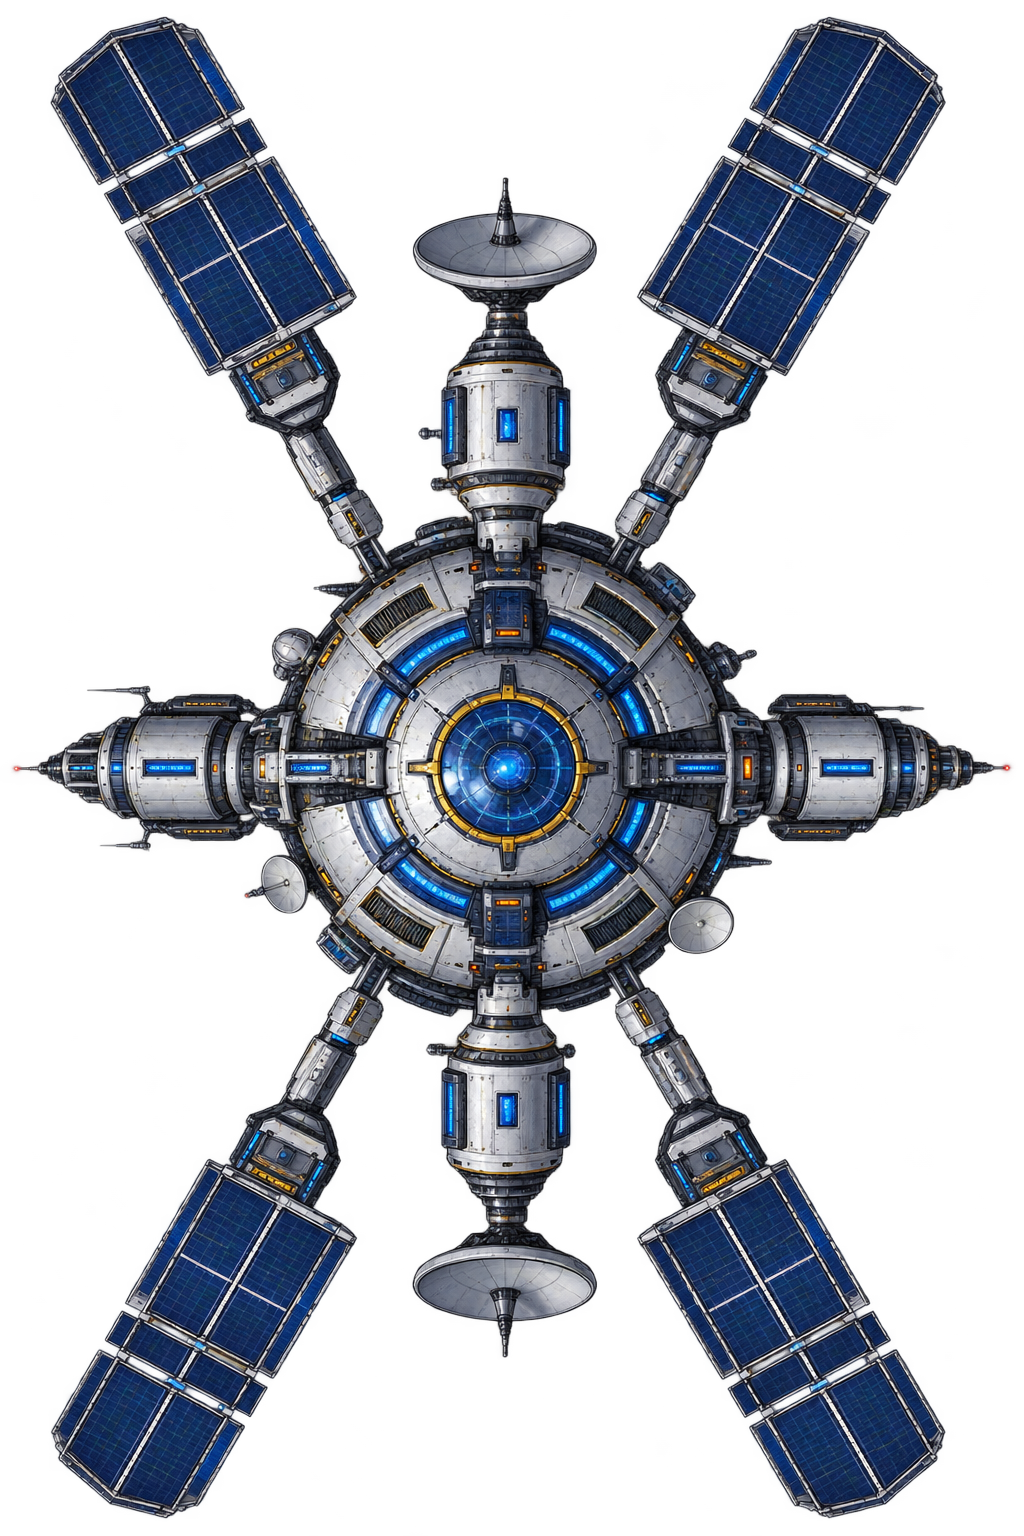
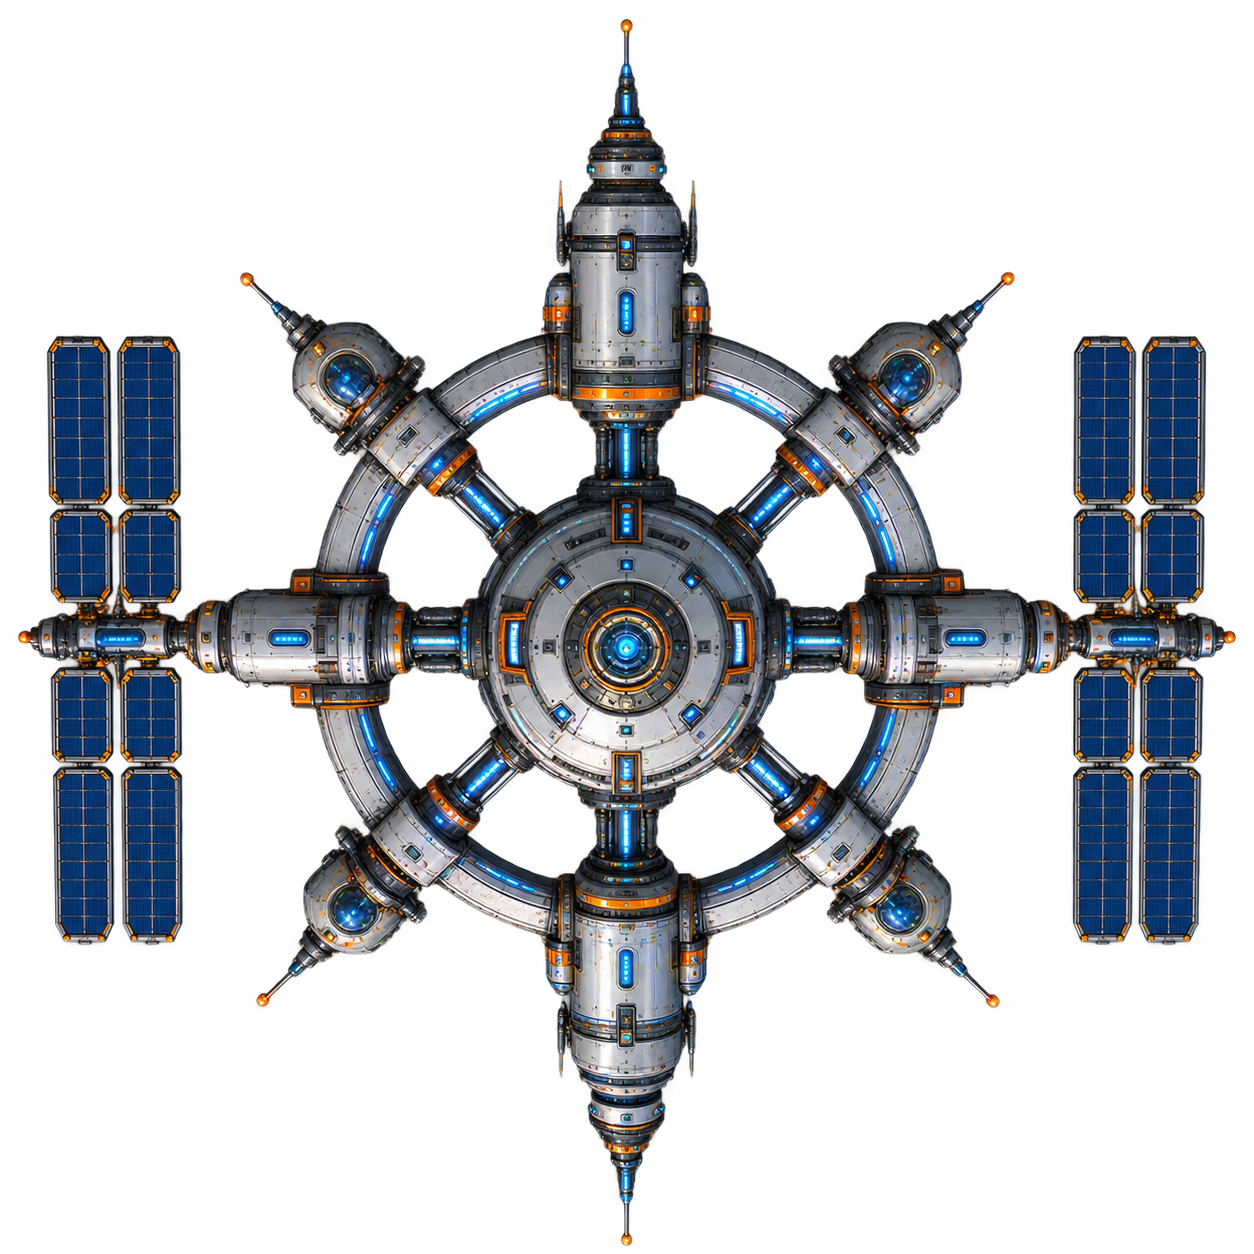
Checkpoint before boss laser attack work: train destroy asset tweak, laser sprite asset
Committing current state as rollback point before implementing the new
straight-laser boss attack for Mission 5.

diff --git a/src/scenes/TestScene.js b/src/scenes/TestScene.js
@@ -1,4 +1,4 @@
-import { GAME_WIDTH, GAME_HEIGHT, ENEMY_TYPES, DIFFICULTY, SHIPS_FALLBACK } from '../config.js';
+import { GAME_WIDTH, GAME_HEIGHT, ENEMY_TYPES, DIFFICULTY, SHIPS_FALLBACK, ENVIRONMENT_OBJECTS } from '../config.js';
 import { MISSIONS, getMissionConfig } from '../missions/Missions.js';
 import { getPrefs, setPref, clampShipIndex } from '../systems/PlayerPrefs.js';
 import Starfield from '../systems/Starfield.js';
@@ -8,6 +8,8 @@ import Player from '../entities/Player.js';
 import Enemy from '../entities/Enemy.js';
 import Train from '../entities/Train.js';
 import Boss from '../entities/Boss.js';
+import MidBoss from '../entities/MidBoss.js';
+import BackgroundStation from '../entities/BackgroundStation.js';
 import Mine from '../entities/bossPatterns/Mine.js';
 import { ACCENT_HEX, TEXT_HEX, drawBeveledPanel, drawCornerBrackets } from '../systems/UITheme.js';
 
@@ -44,6 +46,9 @@ export default class TestScene extends Phaser.Scene {
     this.enemies = [];
     this.trains = [];
     this.boss = null;
+    this.midBoss = null;
+    this.backgroundStations = [];
+    this.environmentObjects = [];
 
     this.playerBullets = new BulletPool(this, { texture: 'bullet_player', maxSize: 60, damage: 20 });
     this.enemyBullets = new BulletPool(this, { texture: 'bullet_enemy', maxSize: 120, damage: 10 });
@@ -70,6 +75,9 @@ export default class TestScene extends Phaser.Scene {
     this.input.keyboard.on('keydown-B', () => this.spawnBoss());
     this.input.keyboard.on('keydown-T', () => this.spawnTrain());
     this.input.keyboard.on('keydown-E', () => this.spawnEnemy());
+    this.input.keyboard.on('keydown-M', () => this.spawnMidBoss());
+    this.input.keyboard.on('keydown-G', () => this.spawnBackground());
+    this.input.keyboard.on('keydown-V', () => this.spawnEnvironmentObject());
     this.input.keyboard.on('keydown-K', () => this.killAll());
     this.input.keyboard.on('keydown-C', () => this.clearAll());
     this.input.keyboard.on('keydown-OPEN_BRACKET', () => this.cycleType(-1));
@@ -124,7 +132,7 @@ export default class TestScene extends Phaser.Scene {
 
     const panelX = 12;
     const panelW = 168;
-    drawBeveledPanel(this, panelX, 50, panelW, 330, { chamfer: 10 }).setDepth(5);
+    drawBeveledPanel(this, panelX, 50, panelW, 450, { chamfer: 10 }).setDepth(5);
 
     let y = 74;
     const spacing = 40;
@@ -153,6 +161,10 @@ export default class TestScene extends Phaser.Scene {
     makeButton('SPAWN ENEMY [E]', () => this.spawnEnemy());
     makeButton('SPAWN TRAIN [T]', () => this.spawnTrain());
     makeButton('SPAWN BOSS [B]', () => this.spawnBoss());
+    makeButton('SPAWN MID-BOSS [M]', () => this.spawnMidBoss());
+    y += 8;
+    makeButton('SPAWN BACKGROUND [G]', () => this.spawnBackground());
+    makeButton('SPAWN ENVIRONMENT [V]', () => this.spawnEnvironmentObject());
     y += 8;
     makeButton('DAMAGE HOSTILES 20%', () => this.damageAllFraction(0.2));
     makeButton('KILL ALL [K]', () => this.killAll());
@@ -245,6 +257,42 @@ export default class TestScene extends Phaser.Scene {
     );
   }
 
+  spawnMidBoss() {
+    if (this.midBoss && this.midBoss.alive) return;
+    this.midBoss = new MidBoss(this, this.enemyBullets, this.juice, this.audio, this.bossSpriteGroup);
+  }
+
+  // Fullscreen mission-backdrop layer -- same BackgroundStation entity as
+  // GameScene.spawnBackgroundStation, just without the "one per mission" /
+  // "wait for foreground stations to clear" gating (sandbox: spawn on demand).
+  spawnBackground() {
+    const plan = this.registry.get('availableBackgrounds') || [];
+    if (!plan.length) return;
+    if (this.backgroundStations.some((s) => s.alive)) return;
+    const entry = Phaser.Utils.Array.GetRandom(plan);
+    const station = new BackgroundStation(this, entry.key, GAME_WIDTH / 2, -GAME_HEIGHT / 2, { fullscreen: true, size: entry.size });
+    this.backgroundStations.push(station);
+  }
+
+  // Decorative drifting planet/object -- same BackgroundStation entity as
+  // GameScene.spawnEnvironmentObject, without the spawn-chance roll or
+  // overlap/backdrop-size gating (sandbox: spawn on demand).
+  spawnEnvironmentObject() {
+    const plan = this.registry.get('availableEnvironmentObjects') || [];
+    if (!plan.length) return;
+    const entry = Phaser.Utils.Array.GetRandom(plan);
+    const sizeCfg = ENVIRONMENT_OBJECTS.bySize[entry.size] || ENVIRONMENT_OBJECTS.bySize.Medium;
+    const x = Phaser.Math.Between(60, GAME_WIDTH - 60);
+    const object = new BackgroundStation(this, entry.key, x, -250, {
+      depth: sizeCfg.depth ?? ENVIRONMENT_OBJECTS.depth,
+      size: entry.size,
+      scale: sizeCfg.scale,
+      alpha: sizeCfg.alpha,
+      driftSpeed: sizeCfg.driftSpeed,
+    });
+    this.environmentObjects.push(object);
+  }
+
   // Chops `fraction` of current hp off every active hostile -- a quick way
   // to bring a boss/train/enemy close to 0% hp without grinding a real fight
   // down to it (Destroy/N.png frames only play once hp actually hits 0).
@@ -258,12 +306,16 @@ export default class TestScene extends Phaser.Scene {
     if (this.boss && this.boss.alive) {
       this.boss.takeDamage(this.boss.hp * fraction);
     }
+    if (this.midBoss && this.midBoss.alive) {
+      this.midBoss.takeDamage(this.midBoss.hp * fraction);
+    }
   }
 
   killAll() {
     for (const enemy of this.enemies) if (enemy.alive) enemy.takeDamage(99999);
     for (const train of this.trains) if (train.alive) train.takeDamage(99999);
     if (this.boss && this.boss.alive) this.boss.takeDamage(99999);
+    if (this.midBoss && this.midBoss.alive) this.midBoss.takeDamage(99999);
   }
 
   // Instant removal, no death animation -- for clearing clutter between
@@ -272,9 +324,15 @@ export default class TestScene extends Phaser.Scene {
     for (const enemy of this.enemies) if (enemy.sprite) enemy.destroy();
     for (const train of this.trains) if (train.sprite) train.destroy();
     if (this.boss && this.boss.sprite) this.boss.destroy();
+    if (this.midBoss && this.midBoss.sprite) this.midBoss.destroy();
+    for (const s of this.backgroundStations) if (s.alive) s.destroy();
+    for (const o of this.environmentObjects) if (o.alive) o.destroy();
     this.boss = null;
+    this.midBoss = null;
     this.enemies = [];
     this.trains = [];
+    this.backgroundStations = [];
+    this.environmentObjects = [];
   }
 
   update(time, dt) {
@@ -284,14 +342,21 @@ export default class TestScene extends Phaser.Scene {
 
     for (const enemy of this.enemies) enemy.update(time, dt);
     for (const train of this.trains) train.update(time, dt);
+    for (const s of this.backgroundStations) s.update(time, dt);
+    for (const o of this.environmentObjects) o.update(time, dt);
+    if (this.midBoss) this.midBoss.update(time, dt);
     if (this.boss) this.boss.update(time, dt);
 
     this.enemies = this.enemies.filter((e) => e.alive);
     this.trains = this.trains.filter((t) => t.alive);
+    this.backgroundStations = this.backgroundStations.filter((s) => s.alive);
+    this.environmentObjects = this.environmentObjects.filter((o) => o.alive);
     if (this.boss && !this.boss.alive) this.boss = null;
+    if (this.midBoss && !this.midBoss.alive) this.midBoss = null;
 
     const lines = [];
     if (this.boss) lines.push(`BOSS HP: ${Math.max(this.boss.hp, 0)}/${this.boss.maxHp}`);
+    if (this.midBoss) lines.push(`MID-BOSS HP: ${Math.max(this.midBoss.hp, 0)}/${this.midBoss.maxHp}`);
     for (const train of this.trains) lines.push(`TRAIN HP: ${Math.max(train.hp, 0)}/460`);
     this.hpText.setText(lines.join('\n'));
   }

diff --git a/src/config.js b/src/config.js
@@ -648,7 +648,7 @@ export const MID_BOSS = {
   hp: 1600,
   scoreValue: 1200,
   hitboxRadius: Math.round(BOSS.hitboxRadius * 0.5),
-  scale: BOSS.scale * 0.5,
+  scale: BOSS.scale * 1.5,
   sweepSpeed: 110,
   // Hard cap on how long the mid-boss stays -- at lifetimeMs it enrages
   // regardless of remaining hp. enrageWarningMs is how long before that the
